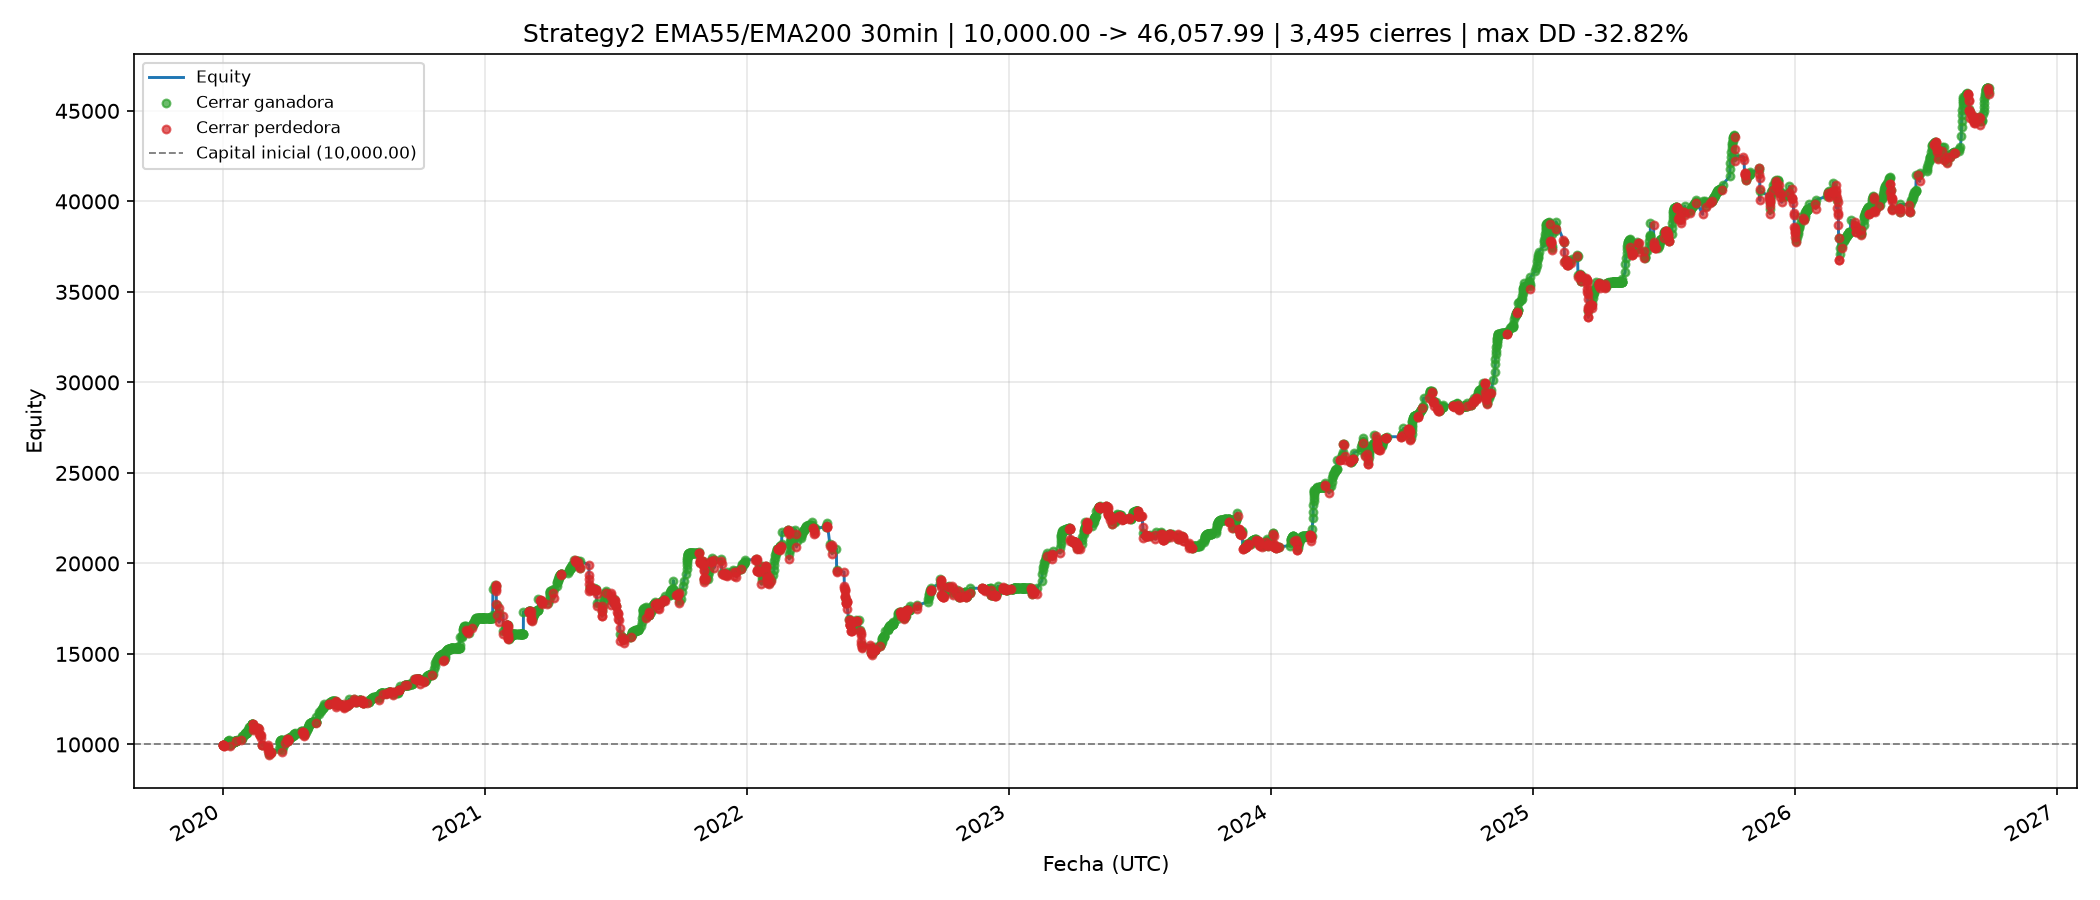
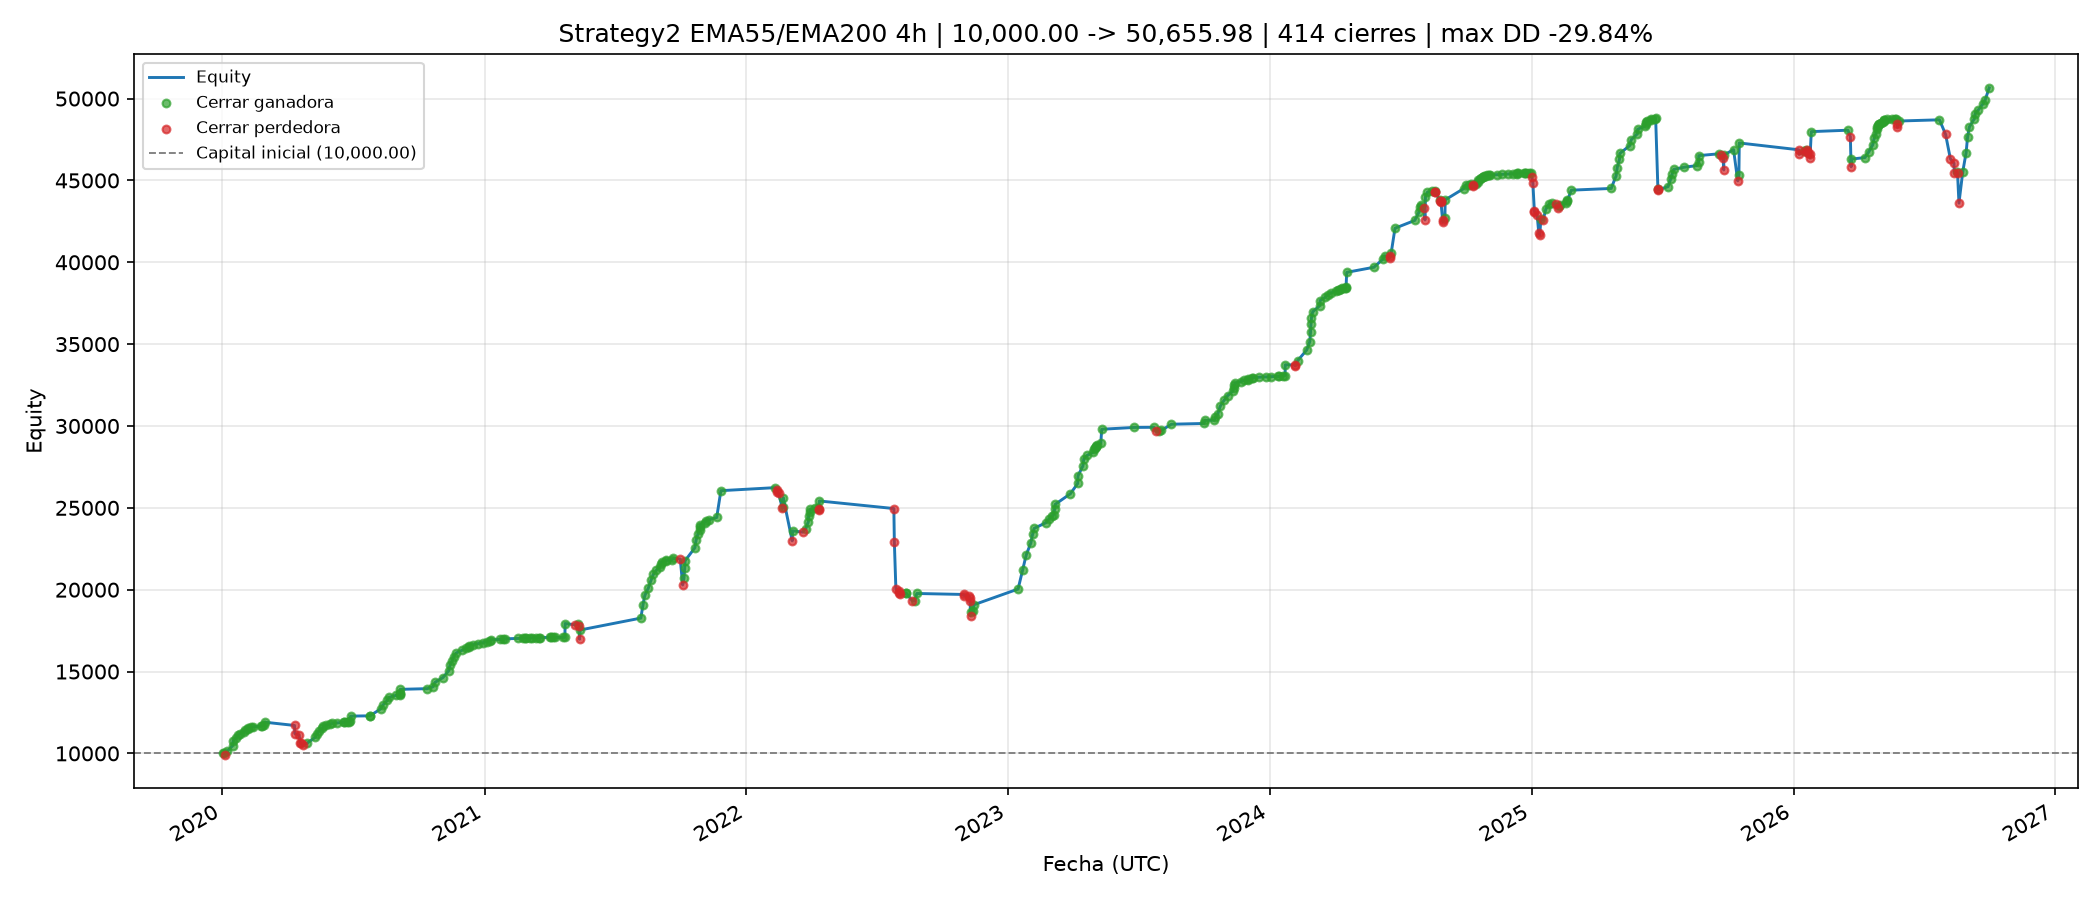
update

diff --git a/backend/services/backtest/bin/legacy/strategy/strategy2.py b/backend/services/backtest/bin/legacy/strategy/strategy2.py
@@ -72,7 +72,7 @@ class Config:
     ema_slow: int = 200
 
     # Timeframe de la estrategia.
-    timeframe: str = "30min"
+    timeframe: str = "4h"
 
     # Lados habilitados.
     allow_long: bool = True
@@ -92,11 +92,11 @@ class Config:
     # Salida por reversión del ADX en un timeframe menor (ej. 5m).
     # adx_exit_pct = 100 -> cierre total; < 100 -> salida parcial.
     adx_exit_enabled: bool = True
-    adx_timeframe: str = "5min"
+    adx_timeframe: str = "15min"
     adx_dilen: int = 14
     adx_adxlen: int = 14
     adx_key_level: float = 23.0
-    adx_exit_pct: float = 25.0
+    adx_exit_pct: float = 50.0
 
     # Salida parcial por RSI en el timeframe de la estrategia (30m).
     # Solo SHORT: cruce a la baja de `rsi_exit_level`.
